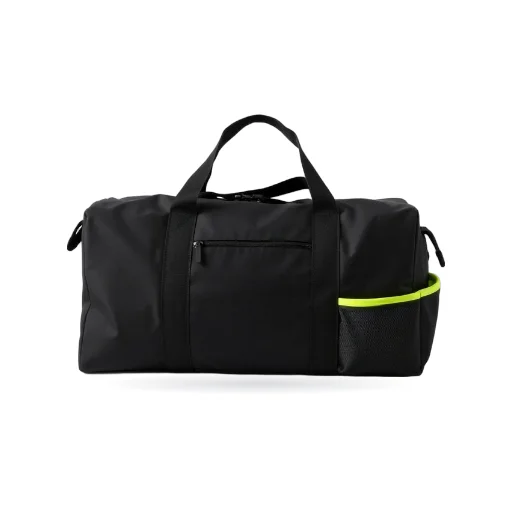
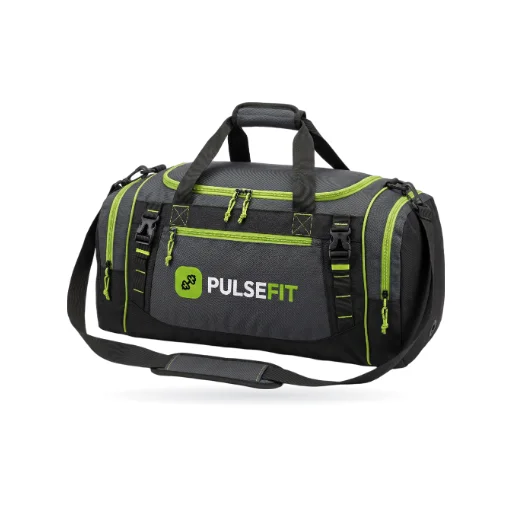
Gifts: the owner's Gemini pictures
The owner sent 23 pictures made with Google Gemini (Gifts.zip). They now cover all 24
gifts: one shows the cap and the towel side by side and was cut in two without its
captions. They replace the AI Horde / FLUX.1 schnell set, and the free week gets its
first picture. Each was cut out with BiRefNet by npm run gift:add. The cut-out drops
Gemini's visible sparkle in the corner; the invisible SynthID watermark stays.
LICENCE.md lists the source and Google's terms.

The gift e2e now puts the free week back on its emoji itself, as it no longer
depends on which gifts have a picture.

Changed region(s): [[0.125, 0.1875, 0.875, 0.7812]]

diff --git a/e2e/gift-pictures.spec.ts b/e2e/gift-pictures.spec.ts
@@ -3,7 +3,7 @@ import { freshMember, test, useAppMode, useSession } from './helpers';
 
 // A gift whose image is a built-in picture path shows as a picture (website and app); every other gift
 // keeps its emoji. The store answer is rewritten here so the check does not depend on which pictures are listed
-// in client/src/data/gift-pictures.json; the free week has no picture, so it shows its emoji.
+// in client/src/data/gift-pictures.json: the mug gets a picture and the free week is put back on its emoji.
 
 for (const mode of ['website', 'app'] as const) {
   test(`the store shows a built-in picture as an image and the other gifts as emoji (${mode})`, async ({ page, request }, testInfo) => {
@@ -13,7 +13,8 @@ for (const mode of ['website', 'app'] as const) {
     await page.route('**/api/rewards/gifts', async route => {
       const response = await route.fetch();
       const json = await response.json();
-      json.data = json.data.map((g: { id: string; image: string }) => (g.id === 'gift_mug' ? { ...g, image: '/gifts/mug.webp' } : g));
+      const image: Record<string, string> = { gift_mug: '/gifts/mug.webp', gift_free_week: '📅' };
+      json.data = json.data.map((g: { id: string; image: string }) => (image[g.id] ? { ...g, image: image[g.id] } : g));
       await route.fulfill({ response, json });
     });
     await page.goto('/rewards');

diff --git a/docs/gift-pictures/LICENCE.md b/docs/gift-pictures/LICENCE.md
@@ -1,26 +1,28 @@
 # Gift pictures: where they come from and the licence
 
-The pictures in `client/public/gifts/` were made with AI on 2026-11-21. The owner approved this ("if possible the you generate by your using other ai website or somwhere alse, i'm approving you"; "Yes, PulseFit logo" on the branded items).
+The pictures in `client/public/gifts/` were made with AI. Since 2026-11-21 all 24 come from the gym owner, who made them with Google Gemini and sent them as `Gifts.zip` to use as the gift pictures. They replace the AI Horde pictures described further down.
 
-## Service and model
+## Google Gemini (the pictures in use)
 
-- **Service:** AI Horde (https://aihorde.net), a free volunteer-run image service. It was used anonymously with its public anonymous key `0000000000`, so no account and no API key of our own.
-- **Model:** `Flux.1-Schnell fp8 (Compact)`, the AI Horde build of FLUX.1 [schnell] by Black Forest Labs (8-bit weights of the same model; https://github.com/Haidra-Org/AI-Horde-image-model-reference). Licence: Apache-2.0.
-- **Settings:** 1024 x 1024 px, 4 steps, sampler k_euler, CFG 1, a fixed seed per try (1 to 5).
-- **Sent:** only the prompt text from `prompts.md` (style block + the gift's line), with no personal data and no files. The service takes text only, so "Attach pulsefit-logo.png." became a written description of the logo. For the 17 plain gifts the style block's "except the PulseFit logo where the line below names it" was left out, because FLUX reads it as a cue to write the name. That clause names nothing for a plain gift.
+- **From Gemini (24):** cap, duffel-bag, foam-roller, free-week, gloves, guest-pass, hoodie, keychain, knee-sleeves, lifting-straps, mug, pt-session, resistance-bands, sample-pack, shaker, skipping-rope, sticker-pack, sweatband, tank-top, towel, tshirt, water-bottle, wrist-wraps, yoga-mat.
+- **Still from AI Horde / FLUX.1 [schnell]:** none.
+- **The files:** 23 PNGs named `Gemini_Generated_Image_*.png`, 2400 x 1792 px. One (2752 x 1536 px) shows the cap and the towel side by side with a caption under each; it was cut into two halves without the captions, one for `cap` and one for `towel`.
+- **Terms:** Google Terms of Service (https://policies.google.com/terms, effective 30 July 2026), "Your content": "Some of our services allow you to generate original content. Google won't claim ownership over that content." So the owner may use the generated pictures. The separate Generative AI Additional Terms (https://policies.google.com/terms/generative-ai, last modified 9 August 2023) stopped applying on 22 May 2024; their rules are now in the Terms of Service and the Generative AI Prohibited Use Policy (https://policies.google.com/terms/generative-ai/use-policy). The forbidden uses (among them "misleading others into thinking that generative AI content was created by a human" and using the content to develop machine-learning models) do not apply to product pictures of gym gifts that this file names as AI-made.
+- **Watermarks:** Gemini adds a small visible sparkle in the bottom-right corner. It is not part of the item, and the cut-out drops it: no cut-out kept any pixel in that corner. Gemini pictures also carry Google's invisible SynthID watermark ("The digital watermarks are not visible to users.", https://support.google.com/gemini/answer/16722517). It was not removed.
 
 ## Processing
 
 `npm run gift:add` cut each picture out with rembg using the `birefnet-general` model (BiRefNet, MIT licence: https://github.com/ZhengPeng7/BiRefNet), then placed it on the shared white 512 x 512 tile. rembg's default model (BRIA RMBG-2.0) is non-commercial (CC BY-NC 4.0), so the script names BiRefNet.
 
-## The pictures used
+## Earlier pictures: AI Horde / FLUX.1 [schnell] (no longer used)
 
-Seed per gift: cap 1, duffel-bag 1, foam-roller 1, gloves 1, guest-pass 3, hoodie 1, keychain 1, knee-sleeves 4, lifting-straps 1, mug 3, pt-session 2, resistance-bands 1, sample-pack 1, shaker 3, skipping-rope 1, sticker-pack 4, sweatband 2, tank-top 3, towel 1, tshirt 3, water-bottle 1, wrist-wraps 2, yoga-mat 1.
+The first set, made with AI on 2026-11-21 before the owner's Gemini pictures, came from AI Horde. The owner approved this ("if possible the you generate by your using other ai website or somwhere alse, i'm approving you"; "Yes, PulseFit logo" on the branded items). They are in the git history only.
 
-`free-week` has no picture and keeps its emoji: all five tries printed made-up words on the calendar (one said "YEAR").
-
-## Commercial use
-
+- **Service:** AI Horde (https://aihorde.net), a free volunteer-run image service. It was used anonymously with its public anonymous key `0000000000`, so no account and no API key of our own.
+- **Model:** `Flux.1-Schnell fp8 (Compact)`, the AI Horde build of FLUX.1 [schnell] by Black Forest Labs (8-bit weights of the same model; https://github.com/Haidra-Org/AI-Horde-image-model-reference). Licence: Apache-2.0.
+- **Settings:** 1024 x 1024 px, 4 steps, sampler k_euler, CFG 1, a fixed seed per try (1 to 5).
+- **Sent:** only the prompt text from `prompts.md` (style block + the gift's line), with no personal data and no files. The service takes text only, so "Attach pulsefit-logo.png." became a written description of the logo. For the 17 plain gifts the style block's "except the PulseFit logo where the line below names it" was left out, because FLUX reads it as a cue to write the name. That clause names nothing for a plain gift.
+- **Seed per gift:** cap 1, duffel-bag 1, foam-roller 1, gloves 1, guest-pass 3, hoodie 1, keychain 1, knee-sleeves 4, lifting-straps 1, mug 3, pt-session 2, resistance-bands 1, sample-pack 1, shaker 3, skipping-rope 1, sticker-pack 4, sweatband 2, tank-top 3, towel 1, tshirt 3, water-bottle 1, wrist-wraps 2, yoga-mat 1. `free-week` had no picture: all five tries printed made-up words on the calendar (one said "YEAR").
 - AI Horde terms (https://aihorde.net/terms), "Image License": "The website claims no rights on the outputs you generate, you are free to use them and are accountable for their use which must not go against the provisions set in this license." None of the terms' forbidden uses apply to product pictures of gym gifts.
 - FLUX.1 [schnell] model card (https://huggingface.co/black-forest-labs/FLUX.1-schnell): "Released under the apache-2.0 licence, the model can be used for personal, scientific, and commercial purposes." Licence text: https://github.com/black-forest-labs/flux/blob/main/model_licenses/LICENSE-FLUX1-schnell (Apache License, Version 2.0).
 - The model card's out-of-scope list (illegal use, harm to minors, false information, personal data, harassment, non-consensual imagery, automated decisions, disinformation) does not cover these pictures.

diff --git a/CHANGELOG.md b/CHANGELOG.md
@@ -28,10 +28,10 @@ Not released yet: the version is prepared, nothing is tagged, deployed or publis
   time) and a payment emails its receipt (plan, amount and reference). Mail is sent in the background: a slow or
   failing sender never delays or fails the booking, payment or reset, and logs carry ids and error text only.
   Without email configured nothing is sent and the reset reply is the desk message as before.
-- **Gift pictures.** Support for a picture on each default gift (`client/src/data/gift-pictures.json`); 23 of the 24
-  gifts have an AI-made picture on the white tile (the free week keeps its emoji), shown on the website and in the
-  app. A gift keeps its own emoji or upload if an admin changed it. `npm run gift:add` places new pictures; the
-  prompts and licence notes are in `docs/gift-pictures/`.
+- **Gift pictures.** Support for a picture on each default gift (`client/src/data/gift-pictures.json`); all 24
+  gifts have a picture the owner made with Google Gemini, on the white tile, shown on the website and in the app. A
+  gift keeps its own emoji or upload if an admin changed it. `npm run gift:add` places new pictures; the prompts and
+  licence notes are in `docs/gift-pictures/`.
 - **Page cartoons inside the sections (Android app only).** Each page's scene sits beside its heading or inside a
   fitting card instead of a strip above the page.
 
